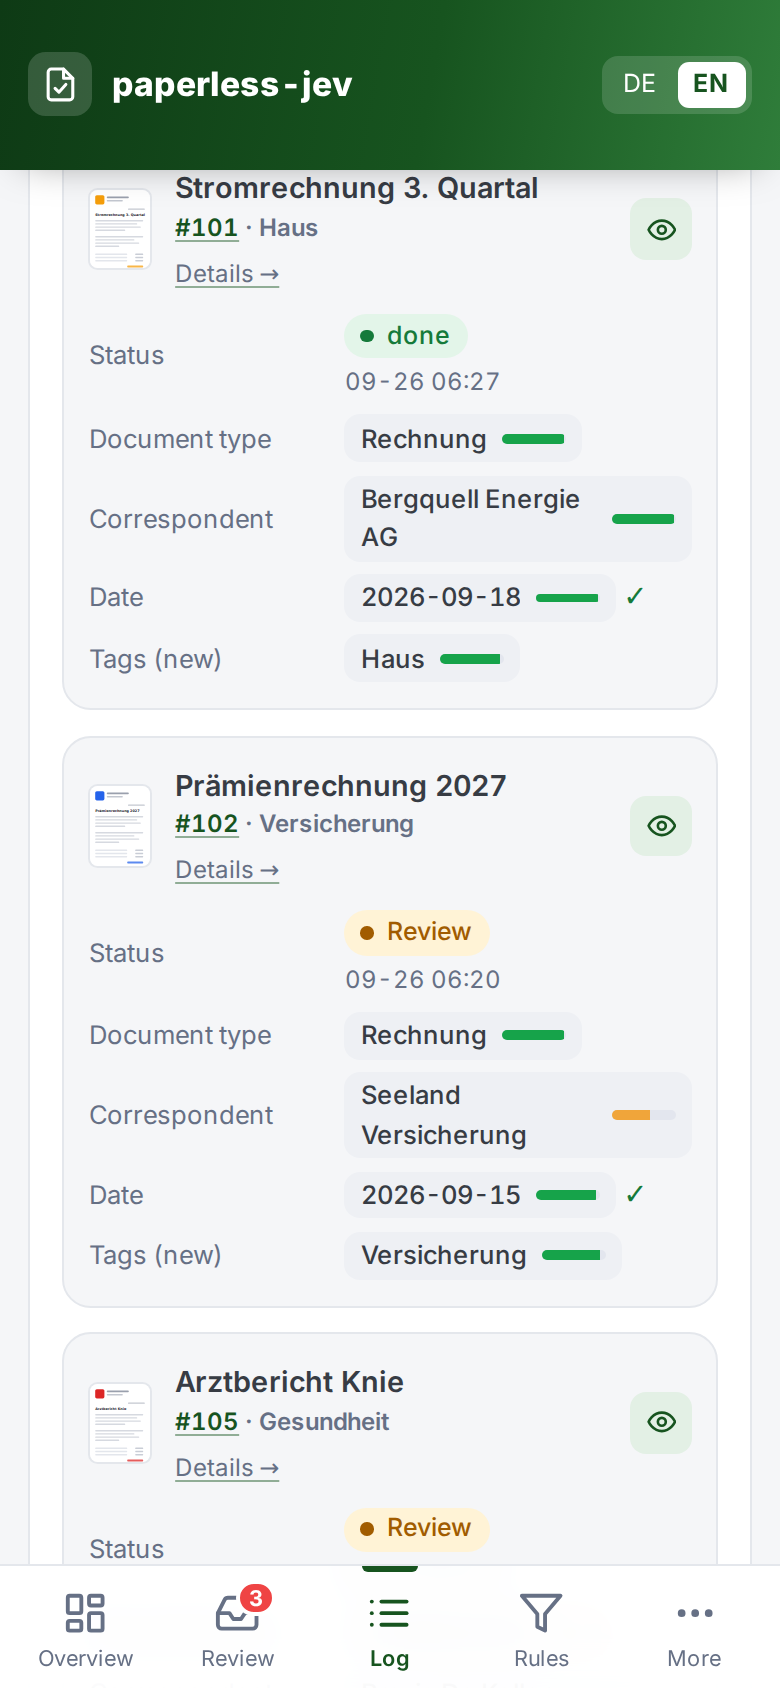
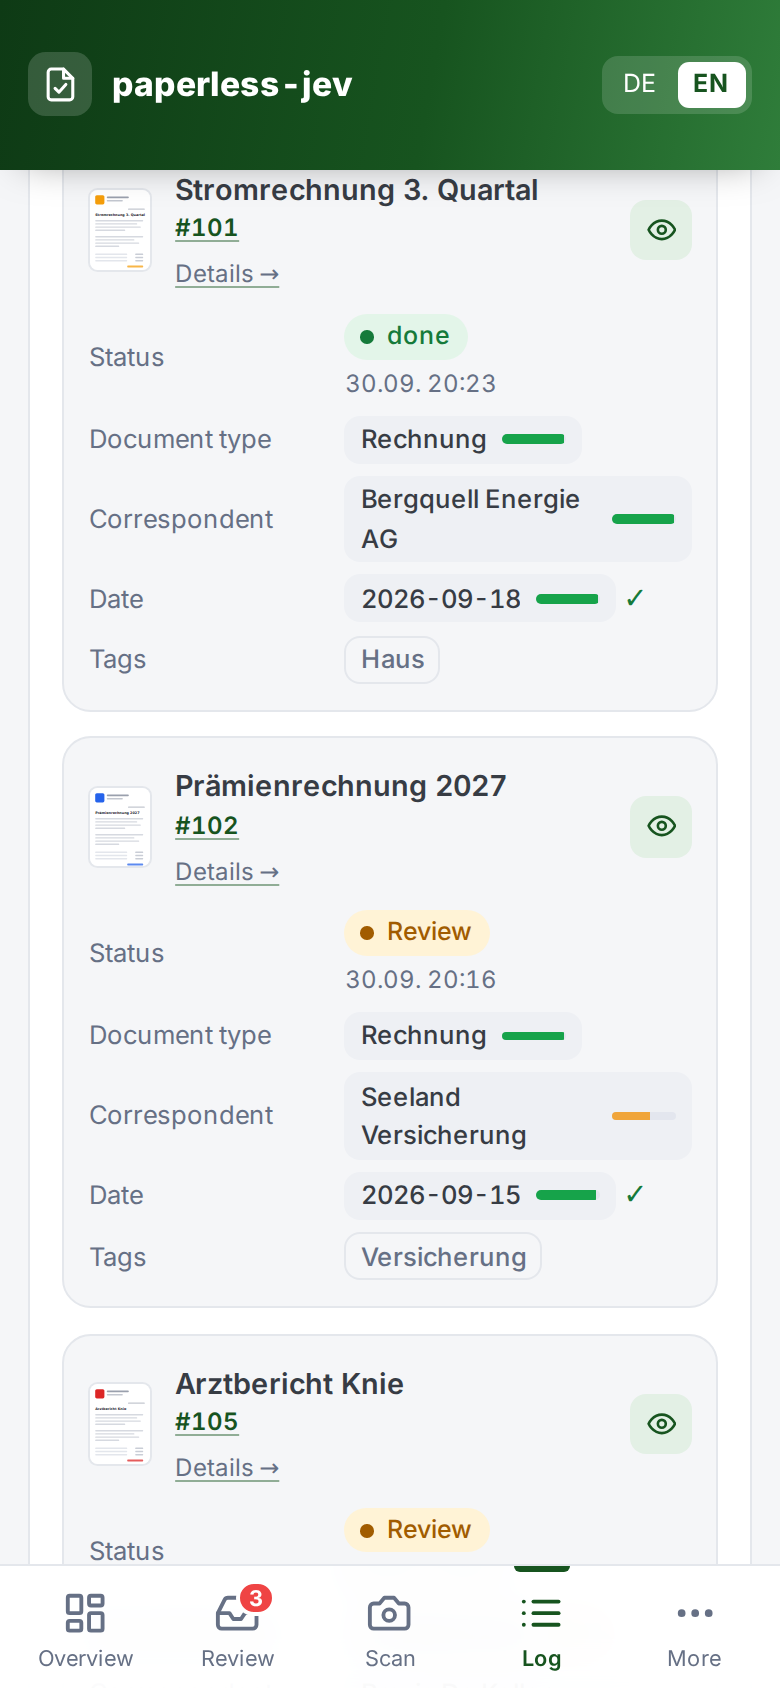
Version 0.2.0: README und Dokumentation zweisprachig nachgefuehrt, Screenshots inkl. Scannen
- README DE/EN: Abschnitt "Belege mit dem Handy scannen" mit vier Screenshots, Funktionsliste aktualisiert
- DOCUMENTATION.md (englisch) neben DOKUMENTATION.md, beide auf aktuellem Stand
- alle Screenshots neu aus der Demo

Claude-Session: https://claude.ai/code/session_01VpzaMAkWBUucoQTmNfrLgC

diff --git a/demo/seed.py b/demo/seed.py
@@ -48,7 +48,8 @@ def result(dt: int, dt_conf: float, corr: int, corr_conf: float, created: str, d
             "correspondent": field(CORRS, corr, corr_conf, list(alts[1])),
             "created": date_field(created, date_conf),
         },
-        "tags": [{"id": t, "label": TAGN[t], "p": p, "level": level(p, 0.9, 0.7)} for t, p in tags],
+        # wie im echten Betrieb: nur Tags vorschlagen, die das Dokument noch nicht hat
+        "tags": [{"id": t, "label": TAGN[t], "p": p, "level": level(p, 0.9, 0.7)} for t, p in tags if t not in current.get("tags", [])],
         "plan": {"updates": {}, "needs_review": False},
         "question_count": 14,
         "current": current,
@@ -113,7 +114,7 @@ def main() -> None:
         (106, "done", "poll", result(3, 0.93, 6, 0.99, "2026-07-10", 0.96, [], cur(106))),
         (104, "done", "webhook", result(2, 0.99, 4, 0.99, "2026-08-31", 0.98, [(7, 0.96)], cur(104))),
         (103, "done", "webhook", result(9, 0.99, 10, 0.97, "2026-01-31", 0.99, [(2, 0.98)], cur(103))),
-        (110, "dry_run", "test", result(10, 0.95, 11, 0.98, "2026-09-12", 0.94, [(4, 0.97)], cur(110, False))),
+        (110, "done", "webhook", result(10, 0.95, 11, 0.98, "2026-09-12", 0.94, [(4, 0.97)], cur(110, False))),
         (108, "review", "webhook", result(5, 0.83, 3, 0.96, "2026-09-05", 0.91, [(2, 0.88)], cur(108, False), ((8,), ()))),
         (105, "review", "webhook", result(6, 0.71, 5, 0.92, "2026-09-02", 0.89, [(6, 0.95), (5, 0.74)], cur(105, False), ((8, 4), ()))),
         (102, "review", "webhook", result(1, 0.97, 2, 0.62, "2026-09-15", 0.96, [(5, 0.93)], cur(102, False), ((), (1,)))),

diff --git a/src/paperless_jev/__init__.py b/src/paperless_jev/__init__.py
@@ -1,3 +1,3 @@
 """Brücke zwischen Paperless NGX und TypeSafe Jev."""
 
-__version__ = "0.1.0"
+__version__ = "0.2.0"

diff --git a/DOCUMENTATION.md b/DOCUMENTATION.md
@@ -1,0 +1,175 @@
+# paperless-jev documentation
+
+[Deutsch](DOKUMENTATION.md) · **English**
+
+## Architecture
+
+```
+Paperless-ngx ──webhook "document added"──▶ paperless-jev ──POST /v1/systemone──▶ TypeSafe (Jev)
+      ▲                (or polling)              │
+      └────────── REST: GET document, PATCH ─────┘
+```
+
+| Module | Purpose |
+|---|---|
+| `app.py` | FastAPI: web UI, `/hook/{instance}`, `/health`, starts background processing |
+| `processor.py` | queue (asyncio), polling, processing, writing back to Paperless |
+| `classifier.py` | builds the Jev request and interprets the answer (pure functions, tested) |
+| `candidates.py` | finds dates and correspondent candidates in code |
+| `llm.py` / `titles.py` | optional: local language model (Ollama or OpenAI-compatible, e.g. SGLang/vLLM) for titles and for descriptions from keywords |
+| `paperless.py` / `jev.py` | thin HTTP clients (Paperless-ngx 2.x and 3.x, TypeSafe System One) |
+| `config.py` / `db.py` / `vault.py` | settings, instances, descriptions, jobs in SQLite; tokens encrypted with Fernet |
+| `static/review.js` / `static/scan.js` | review with pdf.js, scanner with OpenCV.js and jsPDF (in the browser) |
+
+Everything persistent lives in `/data`: `paperless-jev.db` and – without `PJ_SECRET_KEY` – `secret.key`.
+**Back up both files together**, otherwise the stored tokens can no longer be read.
+
+## Processing a document
+
+1. Load the document; documents tagged *ai-ignorieren* are skipped.
+2. Load the instance's metadata (cached for 5 minutes).
+3. Optionally, similar documents already filed (`more_like_id`) as context.
+4. **One** Jev request with all questions:
+   - `choice` document type, correspondent, storage path – options = Paperless metadata + "none of these";
+     per option the description and (type, storage path) titles of documents already filed as examples
+   - `choice` issue date – options = dates found by regex, with context
+   - one `noul` per tag ("does tag X apply?") – for new tags and, as a **double-check**, for tags already set
+5. Decision by mode:
+   - **Dry run**: log only.
+   - **Suggestions only**: set tag *ai-review*, review queue.
+   - **Automatic**: apply confident values. If a field is still empty without a confident value → *ai-review*,
+     otherwise *ai-klassifiziert* + remove the inbox tag. Uncertain tag suggestions alone do not trigger a review
+     (switchable) – but they show up in the review if the document is checked anyway.
+   - **Contradictions**: if Jev confidently disagrees with an existing value, the document goes to review; above the
+     *replace existing value* threshold (e.g. 0.98) Jev corrects it itself. A tag already set that Jev confidently
+     considers wrong also sends the document to review – nothing is ever removed automatically.
+6. Values confirmed or corrected in the review are written; corrections are counted (overview) and help to
+   fine-tune descriptions and thresholds.
+
+## Review
+
+One document at a time ("3 of 22"). The PDF is rendered with pdf.js right in the review; values chosen by Jev
+(sender, type, date) are highlighted in the text layer – green confident, yellow uncertain. Fields can be changed
+through selection sheets (Jev's suggestions with probability, current value, search), tags are chips; existing tags
+Jev considers wrong are unselected in advance and removed when applying. After applying or dismissing, the next
+document follows.
+
+- **Re-check all** classifies all review documents again with the current configuration; a new run supersedes
+  older review entries of the same document (status *superseded*).
+- **Delete document** deletes it in Paperless (trash, restorable) and marks the entries as *deleted*.
+
+## Design decisions
+
+- **Jev only for decisions.** According to the [Jev 1.13 jaggedness notes](https://docs.typesafe.ai/model-jaggedness/jev-1.13),
+  arithmetic, date comparison and counting are weak – so code finds date candidates and Jev only chooses.
+- **English questions, descriptions in the interface language.** Jev is trained primarily on English, so the fixed
+  questions are English. For descriptions a comparison showed no advantage for English (see *Measurements*), so they
+  stay in the interface language.
+- **Existing values are kept** ("overwrite" off), so Paperless' own matching and manual assignments take precedence –
+  unless Jev disagrees very confidently (separate, configurable threshold, off by default). Exception: the date –
+  Paperless always sets one, Jev corrects it only with high confidence.
+- **Filing conventions through examples.** Jev reads literally: a "Gutschriftsanzeige" (credit advice) ends up as
+  *Gutschrift* (credit note) without help, even if you file such documents as *Kontoauszug* (account statement). So
+  every option gets the titles of up to 5 documents already filed (not in the inbox) as a structured criterion
+  (`{"what": …, "titles_of_documents_already_filed_here": […]}`, see docs.typesafe.ai/primitives/advanced).
+  The examples are cached for one hour.
+- **Correspondent pre-filter** only above 255 entries (choice limit). An earlier pre-filter from 30 entries removed
+  the correct correspondents in the first dry run.
+- **Text truncation** to `max_chars` (70 % start, 30 % end): sender, date and amounts are almost always there; Jev
+  allows 32k tokens for state + longest question.
+- **No Redis/Celery.** An in-process queue is enough for inbox volumes; open jobs are re-queued from SQLite after a
+  restart.
+- **Pin the model**: `jev-latest` moves with releases; if you have calibrated thresholds, enter a fixed version
+  (e.g. `jev-1.13.0`).
+
+## Titles
+
+Jev does not write text. Titles are therefore created either
+- **by language model** (recommended, replaces paperless-gpt): after classification a local model writes a title –
+  via Ollama (e.g. `qwen3:8b`) or an OpenAI-compatible API (e.g. SGLang); for Qwen3 the thinking mode is switched
+  off. Up to 8 titles of documents already filed from the same correspondent or type serve as style examples.
+  Years, dates and person names are avoided because Paperless stores them separately. About 1–2 s per document.
+- **by template**, e.g. `{document_type} {correspondent} {created:%Y-%m}`,
+- or not at all.
+
+Answers from the language model are checked: questions back, explanations or Markdown are rejected and requested
+once more; if a title is merely too long, a shorter version is requested (up to 100 characters accepted). Broken
+titles in the archive (e.g. leftovers from other tools) are not used as style examples. *Suggest title* in the review
+shows the title beforehand without writing anything.
+
+A title entered in the review takes precedence. Paperless workflows triggered by *document updated* that set a title
+run after paperless-jev and therefore have the last word.
+
+## Descriptions from keywords
+
+Under *Descriptions*, keywords are enough ("bank documents, credit, debit – not: tax certificate"). On save, the
+language model turns changed entries into a description – in the interface language, with "Not: …" / "Nicht: …" for
+exclusions – using the titles of documents already filed. Both versions are stored: the keywords (in the input
+field) and the text for Jev (shown below with "→"). Invented exclusions are removed if the keywords contain no
+"not/no/without". An entry is only rewritten when its keywords change.
+
+The Paperless matching rules (search term and algorithm) are shown in grey next to each entry. Under *Rules* they can
+additionally be passed to Jev as a hint (default: off, see *Measurements*).
+
+## Log
+
+By default the log shows only open entries (review, dry runs, errors, queued); filters by status, document type,
+correspondent and tag, and a click on a value in the table filters directly. Times are shown in the `TZ` time zone
+(default Europe/Zurich), stored in UTC.
+
+Every run is a job in SQLite. The jobs are also the memory for polling: a document that has already been evaluated
+is not classified again. *Clean up log* therefore only deletes errors, single tests, dismissed and skipped entries;
+dry runs only with a warning. Running, queued and finished entries are always kept.
+
+## Measurements
+
+Blind tests on 60 documents already filed each (Jev does not see the current filing; results are compared with it).
+Two identical runs differ by ±2 hits – smaller differences are chance.
+
+| Question | Result |
+|---|---|
+| Descriptions in English or German? | Document type EN 44–46/60, DE 49/60, none 46/60. The German lead came almost entirely from 4 dividend documents that an English exclusion misdirected. Descriptions mainly reduce wrong tags ("tax-relevant": 8 instead of 14 false alarms). |
+| Paperless matching rules as a hint? | Correspondent 52/59 with and without, tags the same (within the variation), but +40 % tokens. Therefore off by default. |
+| Double-check existing tags? | 70 tags on 60 documents: 64 confirmed, 6 uncertain, 0 confidently wrong – no false alarms, about +20 % tokens. On by default. |
+
+## Document viewer
+
+On the desktop the preview opens the PDF in an overlay (iframe), on phones in a new tab. The app sends
+`X-Frame-Options: SAMEORIGIN` and `frame-ancestors 'self'`. A reverse proxy must not additionally send
+`X-Frame-Options: DENY` (Traefik: `frameDeny: true`), otherwise the browser reports "refused to connect". The viewer
+appends `?view=…` so the browser does not reuse a cached PDF with old headers.
+
+## Scanning
+
+Under *Scan*, the phone captures documents right in the browser (camera over HTTPS only). OpenCV.js detects the
+document edges live, straightens the page in perspective and offers the filters Original, Greyscale and "Scan"
+(lighting evened out, high contrast). Several pages are combined into one PDF in the browser with jsPDF and sent via
+paperless-jev to `POST /api/documents/post_document/`; the API token stays on the server. The page follows the
+Paperless task and queues the new document for classification right away, without waiting for webhook or polling.
+Ready-made PDFs (e.g. iOS "Scan Documents") can be uploaded on the same page. A `Permissions-Policy` header from the
+reverse proxy must not block the camera (`camera=(self)`).
+
+Libraries are loaded from a CDN at runtime, not bundled: OpenCV.js (`@techstark/opencv-js`, Apache 2.0, ~10 MB,
+only when the camera starts), jsPDF (MIT), pdf.js (Apache 2.0, in the review).
+
+## Webhook
+
+Paperless (≥ 2.14) → *Workflows* → new workflow:
+
+- Trigger *Document added*
+- Action *Webhook*: URL `http://paperless-jev:8000/hook/<instance name>?token=<secret>` (secret on the setup page),
+  *Use webhook parameters* enabled, parameter `doc_id` = `{{ doc_id }}`
+
+The webhook queues the document immediately. Polling (every 5 minutes by default) stays active as a fallback and
+only processes inbox documents that have never been evaluated (errors: up to 3 attempts).
+
+## Privacy
+
+The shortened OCR text and the names of the metadata are sent to `api.typesafe.ai`. According to its documentation,
+TypeSafe does not train on customer data; zero data retention is only available in the Enterprise plan. Tag sensitive
+documents with *ai-ignorieren* (e.g. via a Paperless workflow by storage path or correspondent).
+
+## Cost
+
+jev-1.13: USD 0.042 per million input tokens, output free. Measured: on average about 10k tokens per document (text
+up to 12,000 characters, ~50 tag questions, example titles), i.e. about USD 0.0004. The overview shows the total.

diff --git a/README.en.md b/README.en.md
@@ -8,9 +8,13 @@ issue date and tags. Runs as a Docker container and is configured entirely throu
 
 ![Overview](docs/screenshots/uebersicht-en.png)
 
-| Review | Review (phone) | Scan (phone) | Log (phone) | Descriptions (phone) | Dark mode |
-|---|---|---|---|---|---|
-| ![Review](docs/screenshots/review-en.png) | ![Review phone](docs/screenshots/review-handy-en.png) | ![Scan](docs/screenshots/scannen-handy.png) | ![Log](docs/screenshots/protokoll-handy-en.png) | ![Descriptions](docs/screenshots/beschreibungen-handy-en.png) | ![Dark mode](docs/screenshots/uebersicht-dark-en.png) |
+| Review (desktop) | Dark mode |
+|---|---|
+| ![Review](docs/screenshots/review-en.png) | ![Dark mode](docs/screenshots/uebersicht-dark-en.png) |
+
+| Review (phone) | Scan (phone) | Log (phone) | Descriptions (phone) |
+|---|---|---|---|
+| ![Review phone](docs/screenshots/review-handy-en.png) | ![Scan](docs/screenshots/scan-1-kamera-en.png) | ![Log](docs/screenshots/protokoll-handy-en.png) | ![Descriptions](docs/screenshots/beschreibungen-handy-en.png) |
 
 <sub>Screenshots with made-up demo data, see [`demo/`](demo/).</sub>
 
@@ -20,16 +24,42 @@ issue date and tags. Runs as a Docker container and is configured entirely throu
   calibrated confidence for every answer. Confident values are applied, uncertain ones go to review.
 - **Three modes** – *dry run* (log only), *suggestions only* (everything to review) and
   *automatic* (apply confident values, the rest to review).
-- **Review** one document at a time: the PDF right in the review with Jev's values highlighted, corrections with a tap, built for phones.
+- **Review** one document at a time: the PDF right in the review with Jev's values highlighted, corrections with
+  a tap, built for phones. Re-check all after configuration changes, delete documents (trash).
+- **Double-check** – Jev also checks tags and values that are already set. Contradictions go to review or are
+  corrected directly above a configurable confidence.
 - **Single test** – check one document by ID or Paperless link without writing anything.
 - **Evaluation** on the overview: hit rate per field compared with your current filing.
 - **Descriptions from keywords** – a local language model (Ollama or OpenAI-compatible, e.g. Qwen)
   turns your keywords into a full description in the interface language.
-- **Scan documents** with your phone: edges detected and straightened automatically, several pages into one PDF, straight to Paperless.
-- **Titles** optionally by language model (in the style of documents already filed) or by template.
+- **Scan documents** with your phone: edges detected and straightened automatically, several pages into one PDF,
+  straight to Paperless (see below).
+- **Titles** optionally by language model (in the style of documents already filed, checked and shortened if
+  needed) or by template; "Suggest title" previews it.
 - **Filing conventions** – titles of documents already filed are sent to Jev as examples.
-- **Webhook and polling**, multiple Paperless instances, log with cleanup.
+- **Log** with filters by document type, correspondent and tag, open entries by default, cleanup.
+- **Webhook and polling**, multiple Paperless instances, Paperless-ngx 2.x and 3.x.
 - **Interface** in German and English, optimised for phones, automatic dark mode.
+
+## Scan documents with your phone
+
+Paperless has no phone scanner of its own – paperless-jev brings one. Under **Scan** you photograph documents
+right in the browser, multi-page ones included:
+
+| ① Photograph | ② Check edges | ③ Pages &amp; upload | ④ Status |
+|---|---|---|---|
+| ![Photograph](docs/screenshots/scan-1-kamera-en.png) | ![Check edges](docs/screenshots/scan-2-rand-en.png) | ![Pages](docs/screenshots/scan-3-seiten-en.png) | ![Status](docs/screenshots/scan-4-status-en.png) |
+
+1. **Photograph** – the document is detected live (green frame); take one page after another.
+2. **Check edges** – the page is straightened in perspective; move the corners if needed, rotate, choose the
+   filter *Original*, *Greyscale* or *Scan* (shadows evened out, high contrast for text recognition).
+3. **Upload** – reorder pages, pick the instance, optionally title and tags; all pages go to Paperless as **one PDF**.
+   Ready-made PDFs (e.g. iOS "Scan Documents") can be uploaded too.
+4. **Status** – text recognition in Paperless, then paperless-jev classifies right away; the result appears directly.
+
+Requirements: the page is served over **HTTPS** (camera in the browser), and a `Permissions-Policy` header from the
+reverse proxy does not block the camera (`camera=(self)`). Edge detection (OpenCV.js, ~10 MB) is loaded on the first
+camera start and cached afterwards.
 
 ## How it works
 
@@ -135,7 +165,7 @@ pytest
 PJ_DATA_DIR=./data paperless-jev
 ```
 
-Architecture, design decisions and measurements (German): [DOKUMENTATION.md](DOKUMENTATION.md).
+Architecture, design decisions and measurements: [DOCUMENTATION.md](DOCUMENTATION.md).
 
 ## License
 

diff --git a/README.md b/README.md
@@ -8,9 +8,13 @@ Ausstellungsdatum und Tags. Läuft als Docker-Container und wird komplett über 
 
 ![Übersicht](docs/screenshots/uebersicht.png)
 
-| Review | Review (Handy) | Scannen (Handy) | Protokoll (Handy) | Beschreibungen (Handy) | Dark Mode |
-|---|---|---|---|---|---|
-| ![Review](docs/screenshots/review.png) | ![Review Handy](docs/screenshots/review-handy.png) | ![Scannen](docs/screenshots/scannen-handy.png) | ![Protokoll](docs/screenshots/protokoll-handy.png) | ![Beschreibungen](docs/screenshots/beschreibungen-handy.png) | ![Dark Mode](docs/screenshots/uebersicht-dark.png) |
+| Review (Desktop) | Dark Mode |
+|---|---|
+| ![Review](docs/screenshots/review.png) | ![Dark Mode](docs/screenshots/uebersicht-dark.png) |
+
+| Review (Handy) | Scannen (Handy) | Protokoll (Handy) | Beschreibungen (Handy) |
+|---|---|---|---|
+| ![Review Handy](docs/screenshots/review-handy.png) | ![Scannen](docs/screenshots/scan-1-kamera.png) | ![Protokoll](docs/screenshots/protokoll-handy.png) | ![Beschreibungen](docs/screenshots/beschreibungen-handy.png) |
 
 <sub>Screenshots mit erfundenen Demodaten, siehe [`demo/`](demo/).</sub>
 
@@ -20,16 +24,42 @@ Ausstellungsdatum und Tags. Läuft als Docker-Container und wird komplett über 
   zu jeder Antwort eine kalibrierte Sicherheit. Sichere Werte werden gesetzt, unsichere landen im Review.
 - **Drei Modi** – *Probelauf* (nur protokollieren), *Nur Vorschläge* (alles ins Review) und
   *Automatisch* (sichere Werte setzen, Rest ins Review).
-- **Review** Dokument für Dokument: PDF direkt im Review mit markierten Jev-Werten, Korrektur per Antippen, fürs Handy gemacht.
+- **Review** Dokument für Dokument: PDF direkt im Review mit markierten Jev-Werten, Korrektur per Antippen,
+  fürs Handy gemacht. Alle erneut prüfen nach Änderungen an der Konfiguration, Dokument löschen (Papierkorb).
+- **Gegenprüfung** – Jev prüft auch schon gesetzte Tags und Werte. Widersprüche kommen ins Review oder werden
+  ab einer einstellbaren Sicherheit direkt korrigiert.
 - **Einzeltest** – ein Dokument per ID oder Paperless-Link prüfen, ohne etwas zu schreiben.
 - **Auswertung** auf der Übersicht: Trefferquote je Feld im Vergleich zur heutigen Ablage.
 - **Beschreibungen aus Stichworten** – ein lokales Sprachmodell (Ollama oder OpenAI-kompatibel,
   z. B. Qwen) formuliert deine Stichworte in der Sprache der Oberfläche aus.
-- **Belege scannen** mit dem Handy: Rand wird automatisch erkannt und entzerrt, mehrere Seiten zu einem PDF, direkt nach Paperless.
-- **Titel** optional per Sprachmodell (Stil nach bereits abgelegten Dokumenten) oder per Vorlage.
+- **Belege scannen** mit dem Handy: Rand wird automatisch erkannt und entzerrt, mehrere Seiten zu einem PDF,
+  direkt nach Paperless (siehe unten).
+- **Titel** optional per Sprachmodell (Stil nach bereits abgelegten Dokumenten, geprüft und bei Bedarf gekürzt)
+  oder per Vorlage; «Titel vorschlagen» zeigt ihn vorab.
 - **Ablage-Konventionen** – Titel bereits abgelegter Dokumente gehen als Beispiele an Jev.
-- **Webhook und Polling**, mehrere Paperless-Instanzen, Protokoll mit Bereinigen.
+- **Protokoll** mit Filtern nach Dokumenttyp, Korrespondent und Tag, standardmässig nur Offenes, bereinigen.
+- **Webhook und Polling**, mehrere Paperless-Instanzen, Paperless-ngx 2.x und 3.x.
 - **Oberfläche** auf Deutsch und Englisch, fürs Handy optimiert, Dark Mode automatisch.
+
+## Belege mit dem Handy scannen
+
+Paperless hat keinen eigenen Handy-Scanner – paperless-jev bringt einen mit. Unter **Scannen** fotografierst du
+Belege direkt im Browser, auch mehrseitige:
+
+| ① Fotografieren | ② Rand prüfen | ③ Seiten &amp; hochladen | ④ Status |
+|---|---|---|---|
+| ![Fotografieren](docs/screenshots/scan-1-kamera.png) | ![Rand prüfen](docs/screenshots/scan-2-rand.png) | ![Seiten](docs/screenshots/scan-3-seiten.png) | ![Status](docs/screenshots/scan-4-status.png) |
+
+1. **Fotografieren** – der Beleg wird live erkannt (grüner Rahmen), Seite für Seite aufnehmen.
+2. **Rand prüfen** – die Seite wird perspektivisch gerade gerückt; Ecken bei Bedarf verschieben, drehen,
+   Filter *Original*, *Graustufen* oder *Scan* (Schatten ausgeglichen, kontrastreich für die Texterkennung).
+3. **Hochladen** – Seiten sortieren, Instanz, optional Titel und Tags; alle Seiten gehen als **ein PDF** an Paperless.
+   Fertige PDFs (z. B. iOS «Dokumente scannen») lassen sich ebenfalls hochladen.
+4. **Status** – Texterkennung in Paperless, danach klassifiziert paperless-jev sofort; das Ergebnis erscheint direkt.
+
+Voraussetzungen: Die Seite läuft über **HTTPS** (Kamera im Browser), und ein `Permissions-Policy`-Header des
+Reverse Proxys sperrt die Kamera nicht (`camera=(self)`). Die Randerkennung (OpenCV.js, ~10 MB) wird beim ersten
+Kamerastart geladen und danach aus dem Cache verwendet.
 
 ## So funktioniert es
 
